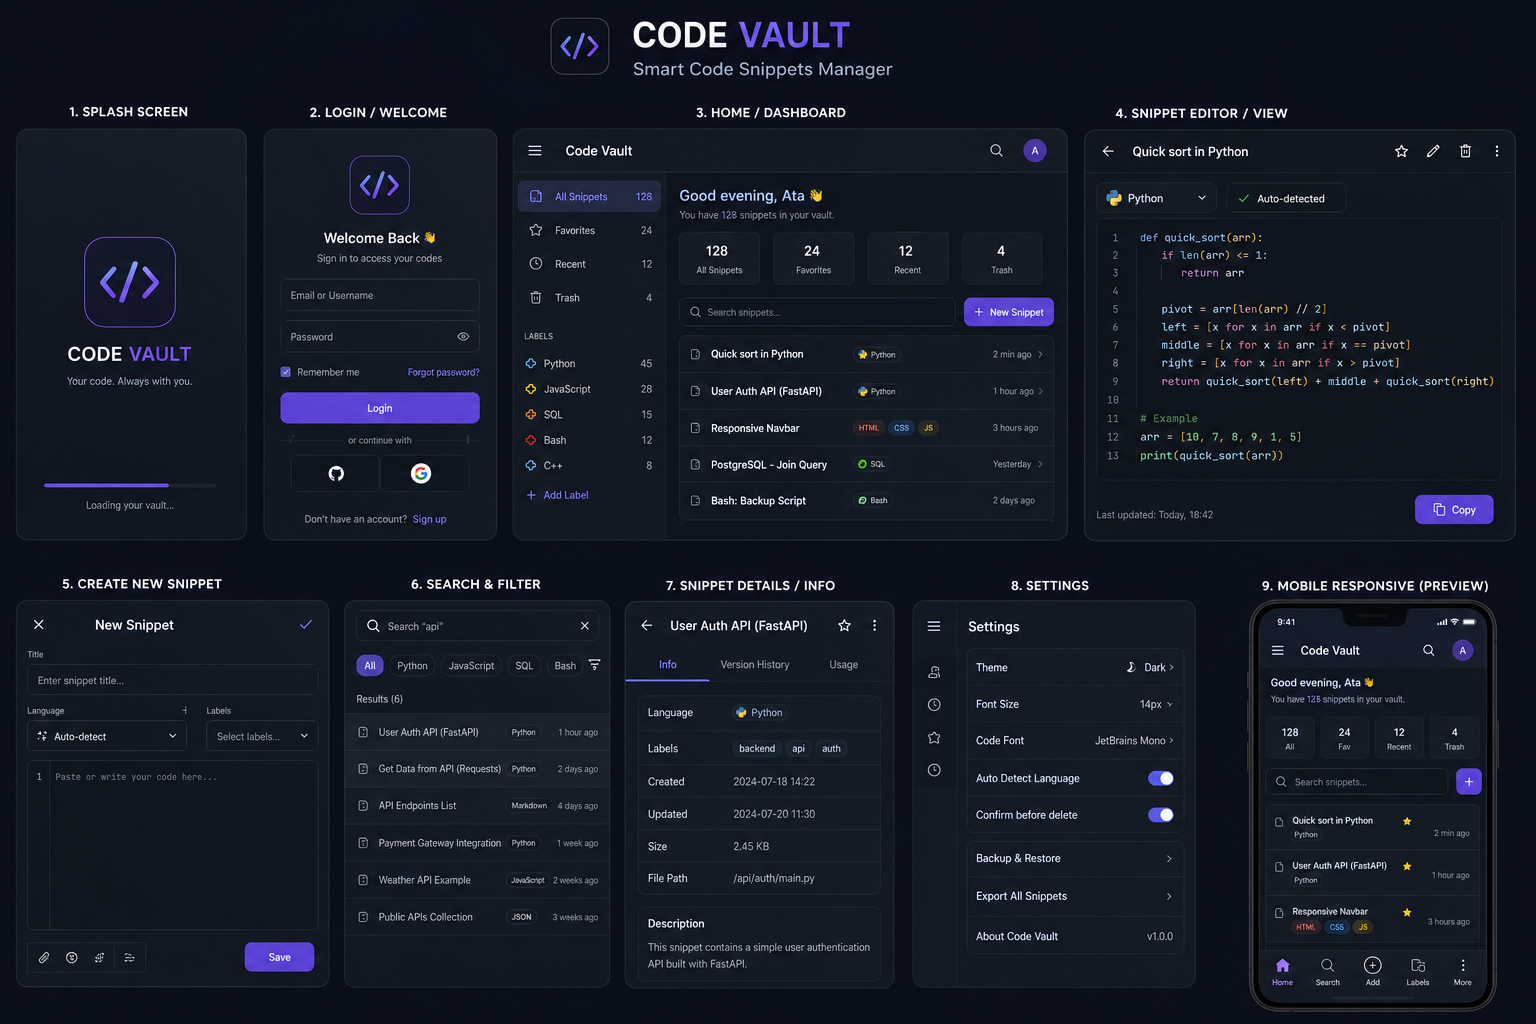
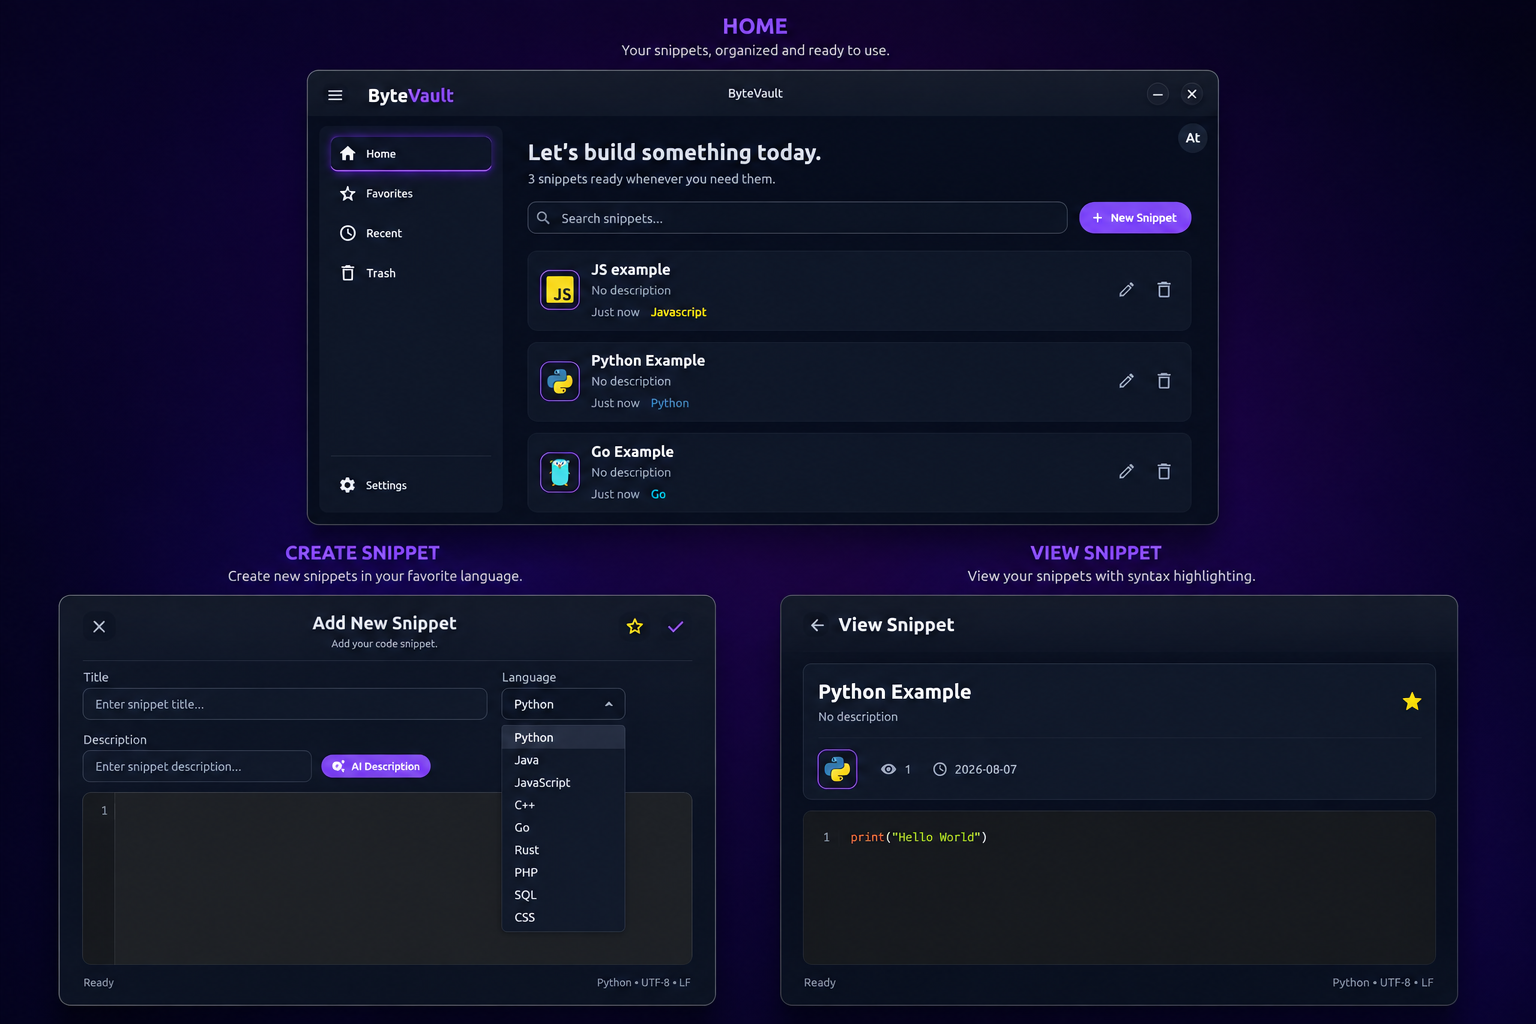
Update ui screenshots

diff --git a/README.md b/README.md
@@ -211,7 +211,7 @@ DATABASE_URL=your_database_url
 ### 1. Clone the repository
 
 ```bash
-git clone https://github.com/YOUR_USERNAME/ByteVault.git
+git clone https://github.com/Atila-Pasha/ByteVault.git
 cd ByteVault
 ```
 
